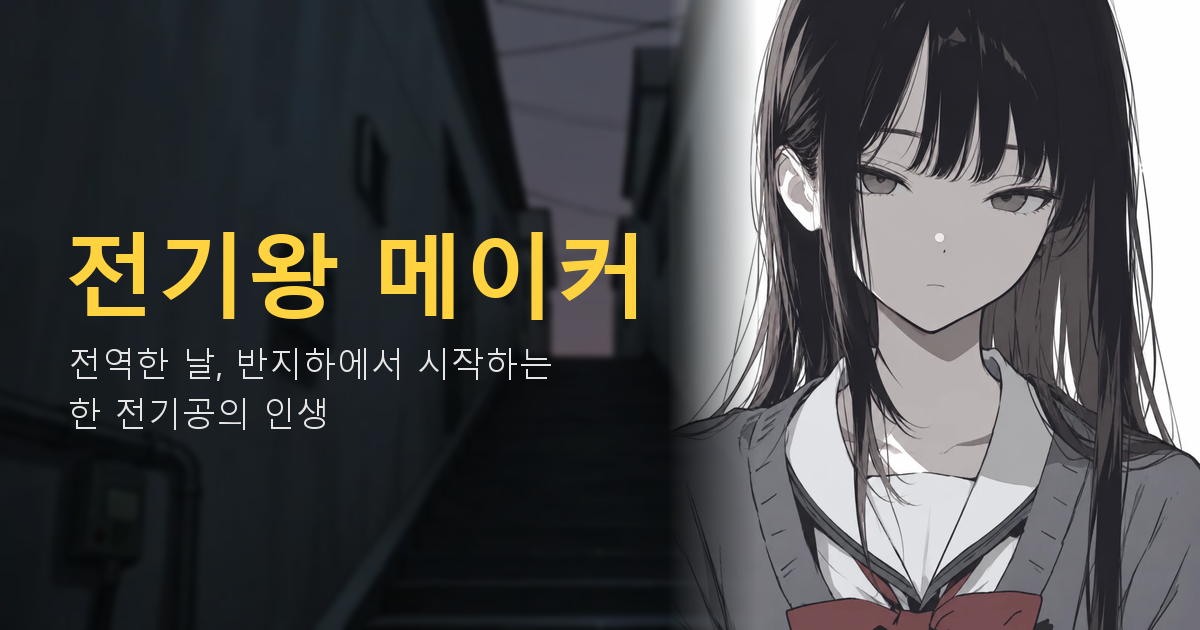
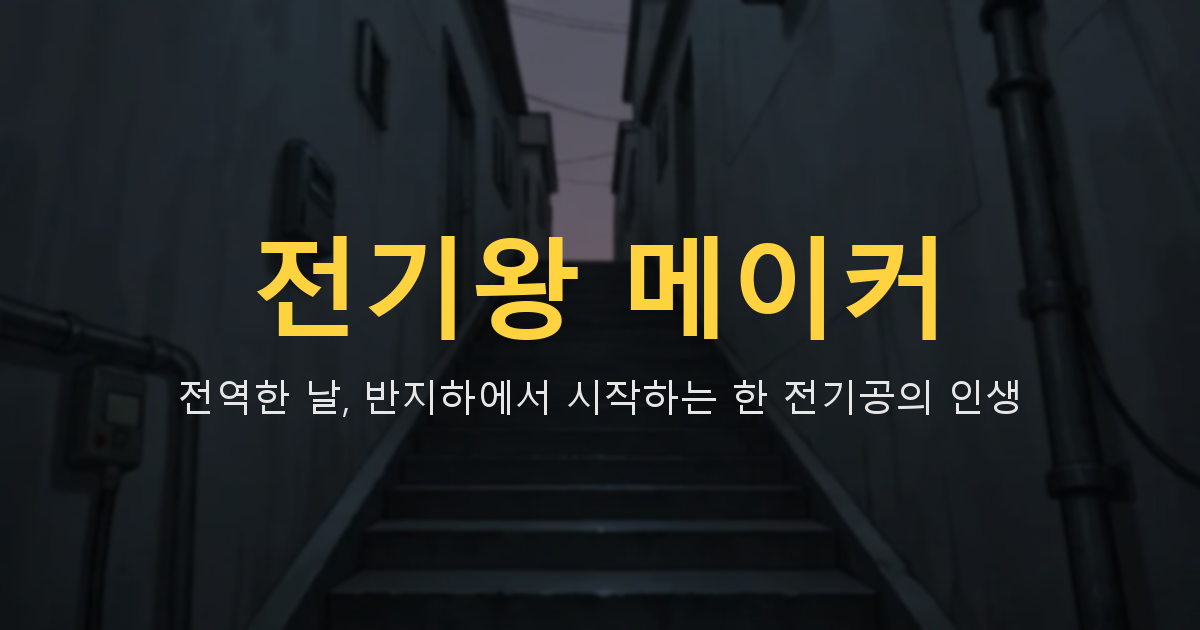
전기왕 메이커 v0.4.23 웹 공개본

diff --git a/index.html b/index.html
@@ -7,7 +7,7 @@
 <meta name="description" content="전역한 날, 반지하에서 시작하는 한 전기공의 인생. 자격증·현장·가족·선택을 3개월씩 쌓아 가는 인생 육성 게임.">
 <meta property="og:title" content="전기왕 메이커">
 <meta property="og:description" content="전역한 날, 반지하에서 시작하는 한 전기공의 인생 육성 게임">
-<meta property="og:image" content="https://rnjsalstjd7096-design.github.io/elecking/share.png?v=0.4.23">
+<meta property="og:image" content="https://rnjsalstjd7096-design.github.io/elecking/share.png?v=68038700">
 <meta property="og:image:width" content="1200"><meta property="og:image:height" content="630">
 <meta property="og:url" content="https://rnjsalstjd7096-design.github.io/elecking/">
 <meta property="og:type" content="website">
